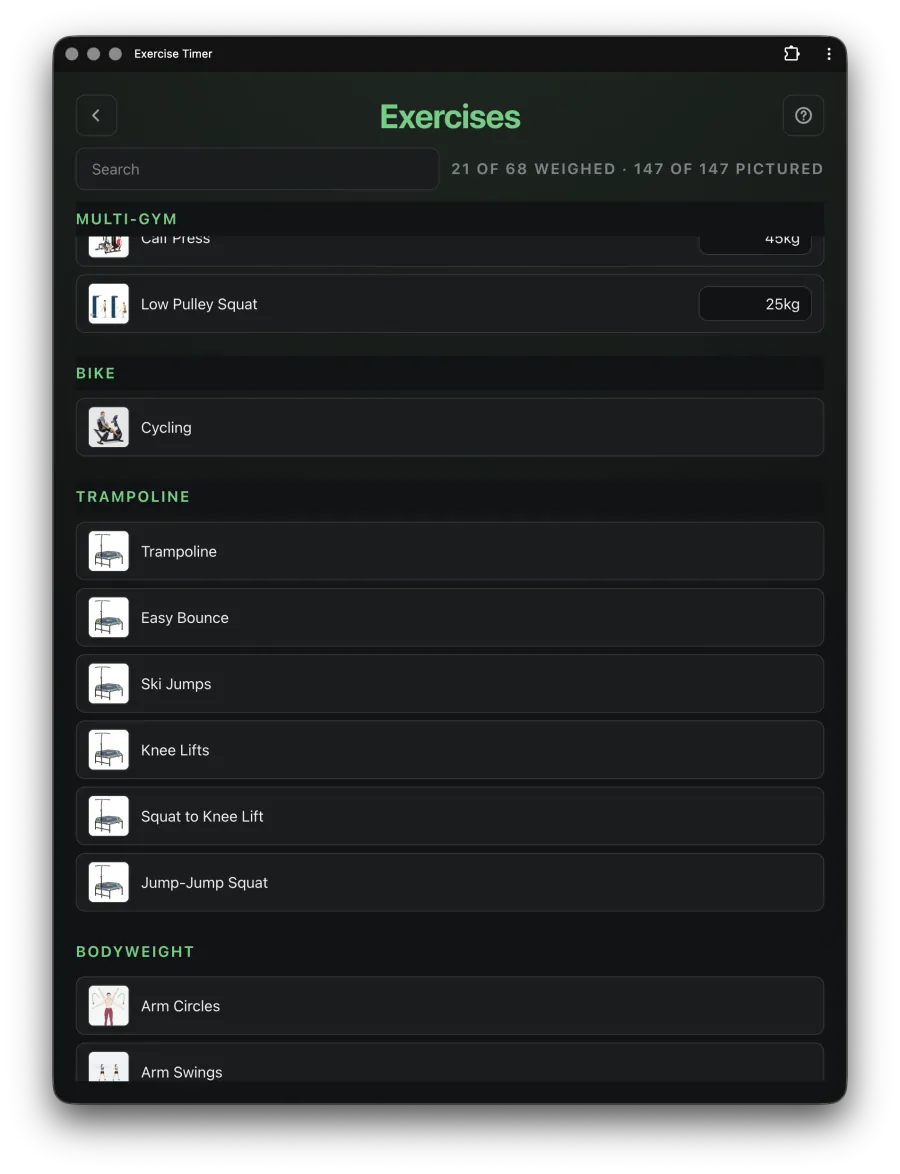
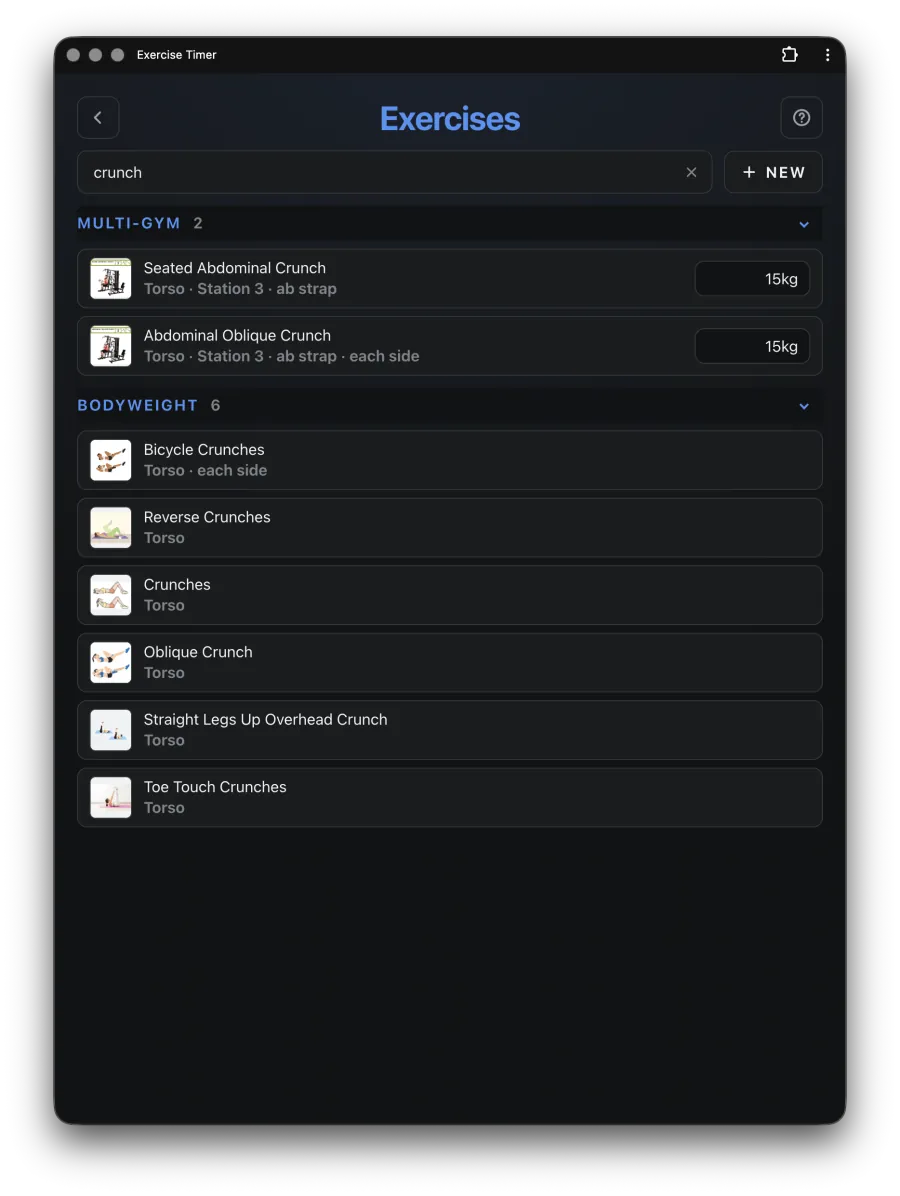
Retake the exercises screenshot and trim its caption to size
The old shot showed the green styling, the removed "n of n weighed" line
and every section open. The new one is the blue page mid-search: the
custom clear button, the New button, the kit counts and the attribute
lines under the names. Converted with the recorded cwebp line.

The caption underneath had grown to twice the length of its neighbours,
pushing the screenshot up out of line with the editor's beside it. It
now says the two things that matter in the same two lines the others
get, with the exercises of your own folded into "yours included".

diff --git a/README.md b/README.md
@@ -80,11 +80,9 @@ from across a gym, with the phone propped against a rack.
       coloured edge on a row is its step type, and the add buttons match.
     </td>
     <td width="50%">
-      <img src="docs/screenshots/exercises.webp" width="420" alt="The exercises page: a search box, a count reading 21 of 68 weighed and 147 of 147 pictured, and rows grouped under Multi-Gym, Bike, Trampoline and Bodyweight, each with a thumbnail and, where there is something to weigh, a weight field." />
+      <img src="docs/screenshots/exercises.webp" width="420" alt="The exercises page: a search for crunch with a New button beside it, and the matching rows grouped under Multi-Gym and Bodyweight, each with a thumbnail, what it works, and a weight field where there is something to weigh." />
       <br /><b>The exercises page.</b> One picture and one weight per exercise,
-      grouped by kit, with what each one works underneath its name. Change a
-      weight here and every routine follows. Exercises you add yourself sit
-      beside the app's own and can be edited or removed.
+      yours included. Change a weight here and every routine follows.
     </td>
   </tr>
 </table>
